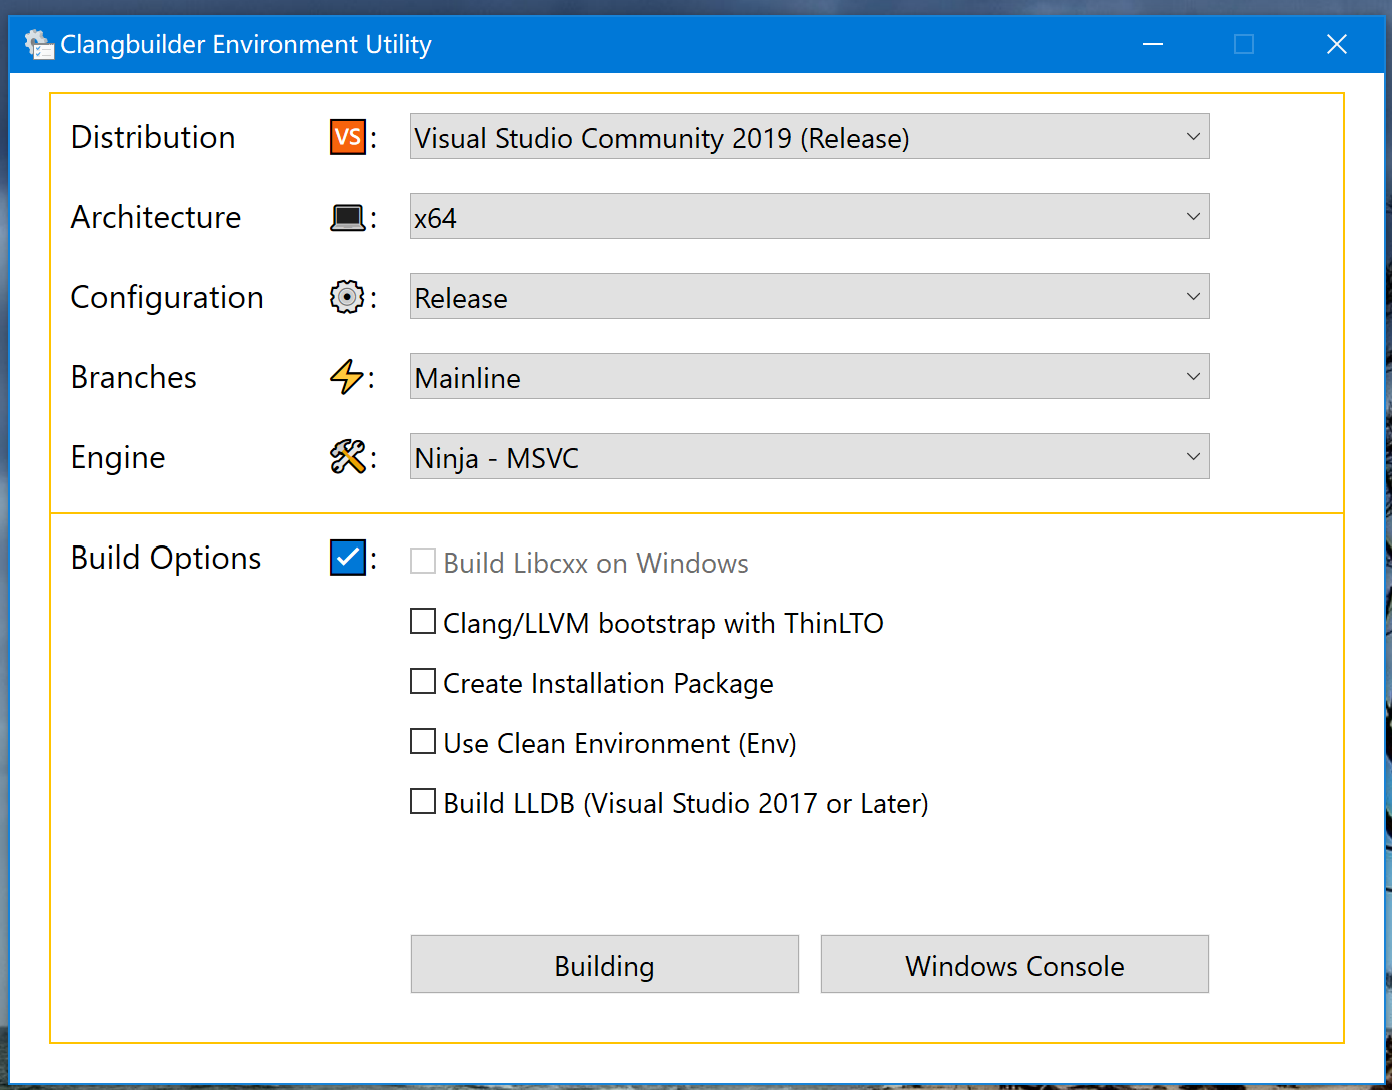
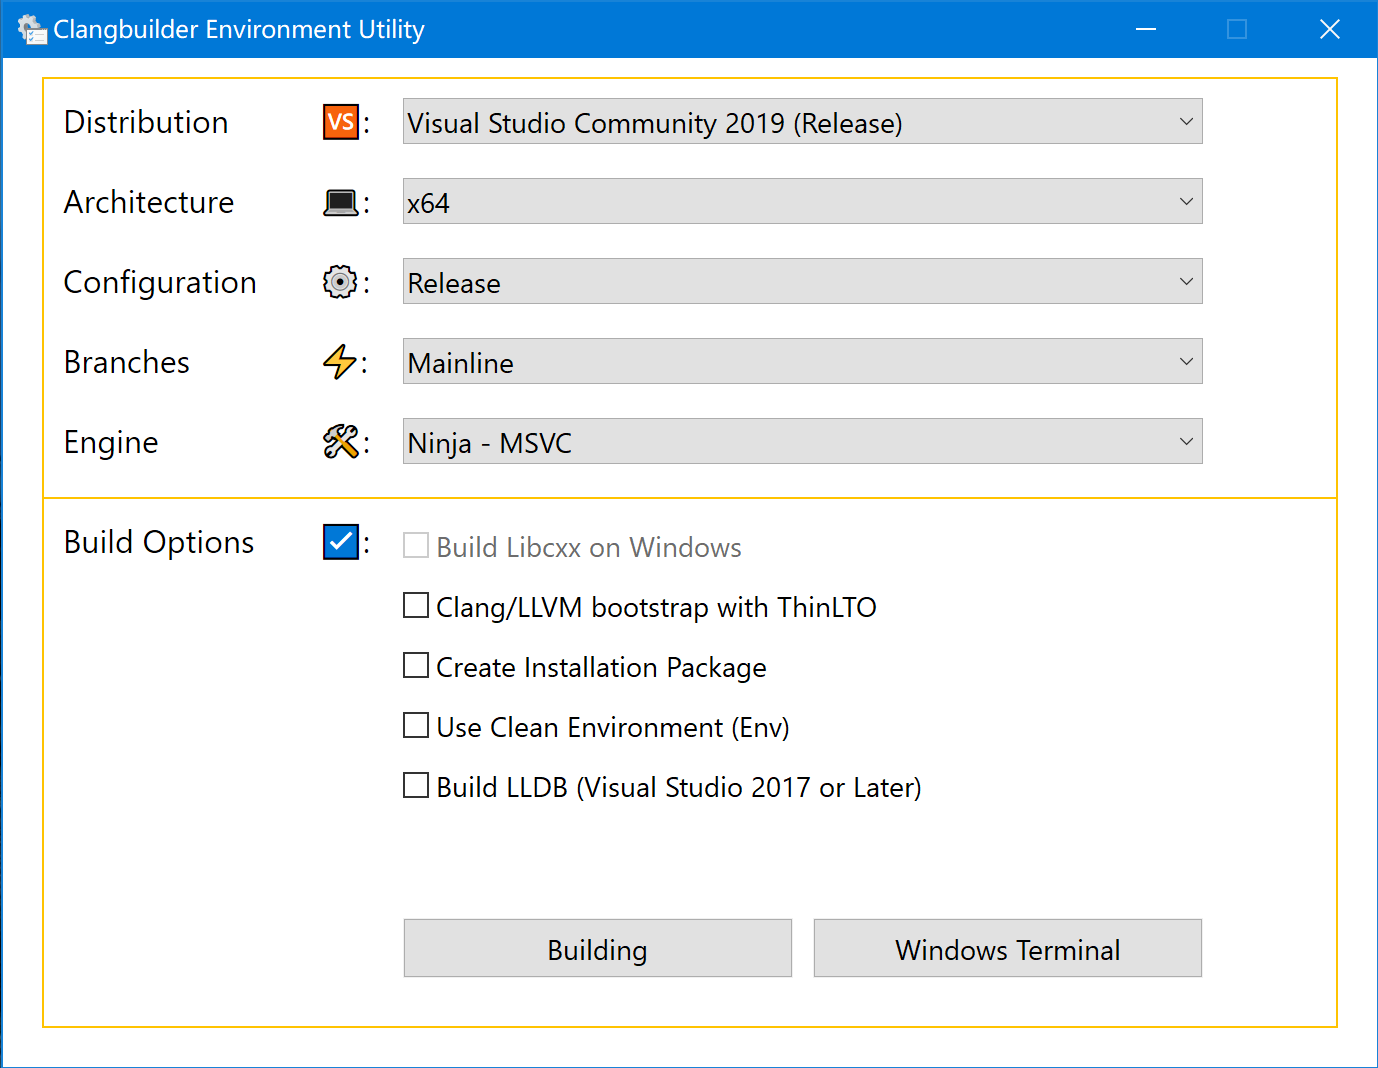
[clangbuilder] update readme

Changed region(s): [[0.0, 0.0, 1.0, 1.0], [0.2808, 0.5562, 0.6865, 0.7725], [0.2808, 0.8652, 0.8737, 0.927]]

diff --git a/docs/index.md b/docs/index.md
@@ -128,6 +128,13 @@ Function ReinitializePath {
 
 ```
 
+## Windows Terminal
+
+You can modify `UseWindowsTerminal` to enable or disable the use of Windows Terminal as the default terminal. When `UseWindowsTerminal` is set to true, you open the Clangbuilder terminal environment, the screenshot is as follows:
+
+![termianl](./images/terminal.png)
+
+
 ## Custom PATH
 
 You can modify [config/initialize.json](https://github.com/fstudio/clangbuilder/blob/master/config/initialize.json) , add some directories to PATH. Note that directories have **higher priority** in PATH. (Insert Front)
@@ -143,10 +150,6 @@ You can modify [config/initialize.json](https://github.com/fstudio/clangbuilder/
 $env:Path = "${env:windir};${env:windir}\System32;${env:windir}\System32\Wbem;${env:windir}\System32\WindowsPowerShell\v1.0"
 ```
 `$evn:windir` is usually `C:\Windows`
-
-## Windows Terminal/Windows Console
-
-When you only need to start a console environment, you can click on the `Windows Terminal`/`Windows Console`.
 
 
 ## Add Portable Utilities

diff --git a/ReadMe.md b/ReadMe.md
@@ -128,6 +128,13 @@ Function ReinitializePath {
 
 ```
 
+## Windows Terminal
+
+You can modify `UseWindowsTerminal` to enable or disable the use of Windows Terminal as the default terminal. When `UseWindowsTerminal` is set to true, you open the Clangbuilder terminal environment, the screenshot is as follows:
+
+
+![termianl](./docs/images/terminal.png)
+
 ## Custom PATH
 
 You can modify [config/initialize.json](./config/initialize.json) , add some directories to PATH. Note that directories have **higher priority** in PATH. (Insert Front)
@@ -143,10 +150,6 @@ You can modify [config/initialize.json](./config/initialize.json) , add some dir
 $env:Path = "${env:windir};${env:windir}\System32;${env:windir}\System32\Wbem;${env:windir}\System32\WindowsPowerShell\v1.0"
 ```
 `$evn:windir` is usually `C:\Windows`
-
-## Windows Terminal/Windows Console
-
-When you only need to start a console environment, you can click on the `Windows Terminal`/`Windows Console`.
 
 
 ## Add Portable Utilities
